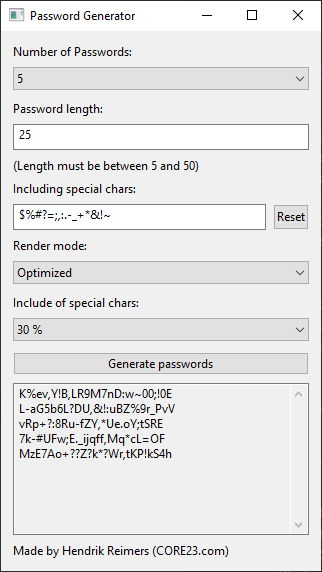
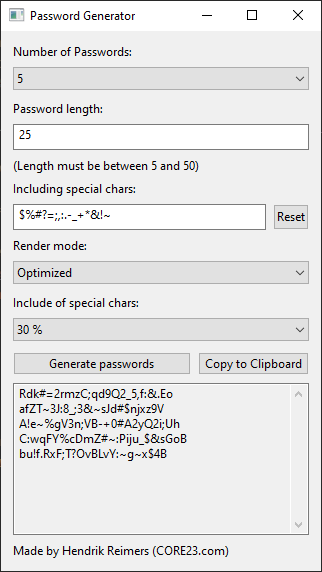
added clipboard support

diff --git a/src/libuiMain/kotlin/main.kt b/src/libuiMain/kotlin/main.kt
@@ -1,6 +1,8 @@
 import Config.Config
 import Config.Defaults
 import Config.GeneratorMode
+import Windows.toClipboard
+import kotlinx.cinterop.memScoped
 import libui.ktx.*
 
 /**
@@ -100,25 +102,49 @@ fun main() = appWindow(
         }
 
         // Action button
-        genBtn = button("Generate passwords") {
-            action {
-                // Clear text area
-                resultTextArea.value = ""
+        hbox {
+            genBtn = button("Generate passwords") {
+                stretchy = true
 
-                // Generate list and push output to textbox
-                val passwordList: List<String> = generatePasswordList(
-                    pwCount               = pwCountDropDown.value + 1,
-                    pwLength              = pwLenInput.value.toInt(),
-                    specialChars          = additionalCharsInput.value,
-                    mode                  = mode.value,
-                    percentOfSpecialChars = Defaults.getPercentComboValue(percentSpecialChars.value)
-                )
+                action {
+                    // Clear text area
+                    resultTextArea.value = ""
 
-                passwordList.forEach { singlePassword ->
-                    // One password per line
-                    resultTextArea.append("""|$singlePassword
+                    // Generate list and push output to textbox
+                    val passwordList: List<String> = generatePasswordList(
+                        pwCount = pwCountDropDown.value + 1,
+                        pwLength = pwLenInput.value.toInt(),
+                        specialChars = additionalCharsInput.value,
+                        mode = mode.value,
+                        percentOfSpecialChars = Defaults.getPercentComboValue(percentSpecialChars.value)
+                    )
+
+                    passwordList.forEach { singlePassword ->
+                        // One password per line
+                        resultTextArea.append(
+                            """|$singlePassword
                         |
-                    """.trimMargin())
+                    """.trimMargin()
+                        )
+                    }
+                }
+            }
+
+            val clipboardBtnLabel: String = " Copy to Clipboard "
+            button(clipboardBtnLabel) {
+                action {
+                    memScoped {
+                        val cleanedValue: String = resultTextArea.value.trim().replace(Regex("[\n\r]$"), "")
+
+                        toClipboard(cleanedValue)
+
+                        text = "DONE"
+
+                        onTimer(1000) {
+                            text = clipboardBtnLabel
+                            false
+                        }
+                    }
                 }
             }
         }

diff --git a/src/libuiMain/kotlin/Windows/Clipboard.kt b/src/libuiMain/kotlin/Windows/Clipboard.kt
@@ -1,0 +1,24 @@
+package Windows
+
+import kotlinx.cinterop.cstr
+import platform.posix.memcpy
+import platform.windows.*
+
+/**
+ * Copies a string to the system clipboard
+ *
+ */
+fun toClipboard(lastLine:String?){
+    val len = lastLine!!.length + 1
+    val hMem = GlobalAlloc(GMEM_MOVEABLE, len.toULong())
+
+    memcpy(GlobalLock(hMem), lastLine.cstr, len.toULong())
+    GlobalUnlock(hMem)
+
+    val hwnd = HWND_TOP
+
+    OpenClipboard(hwnd)
+    EmptyClipboard()
+    SetClipboardData(CF_TEXT, hMem)
+    CloseClipboard()
+}
